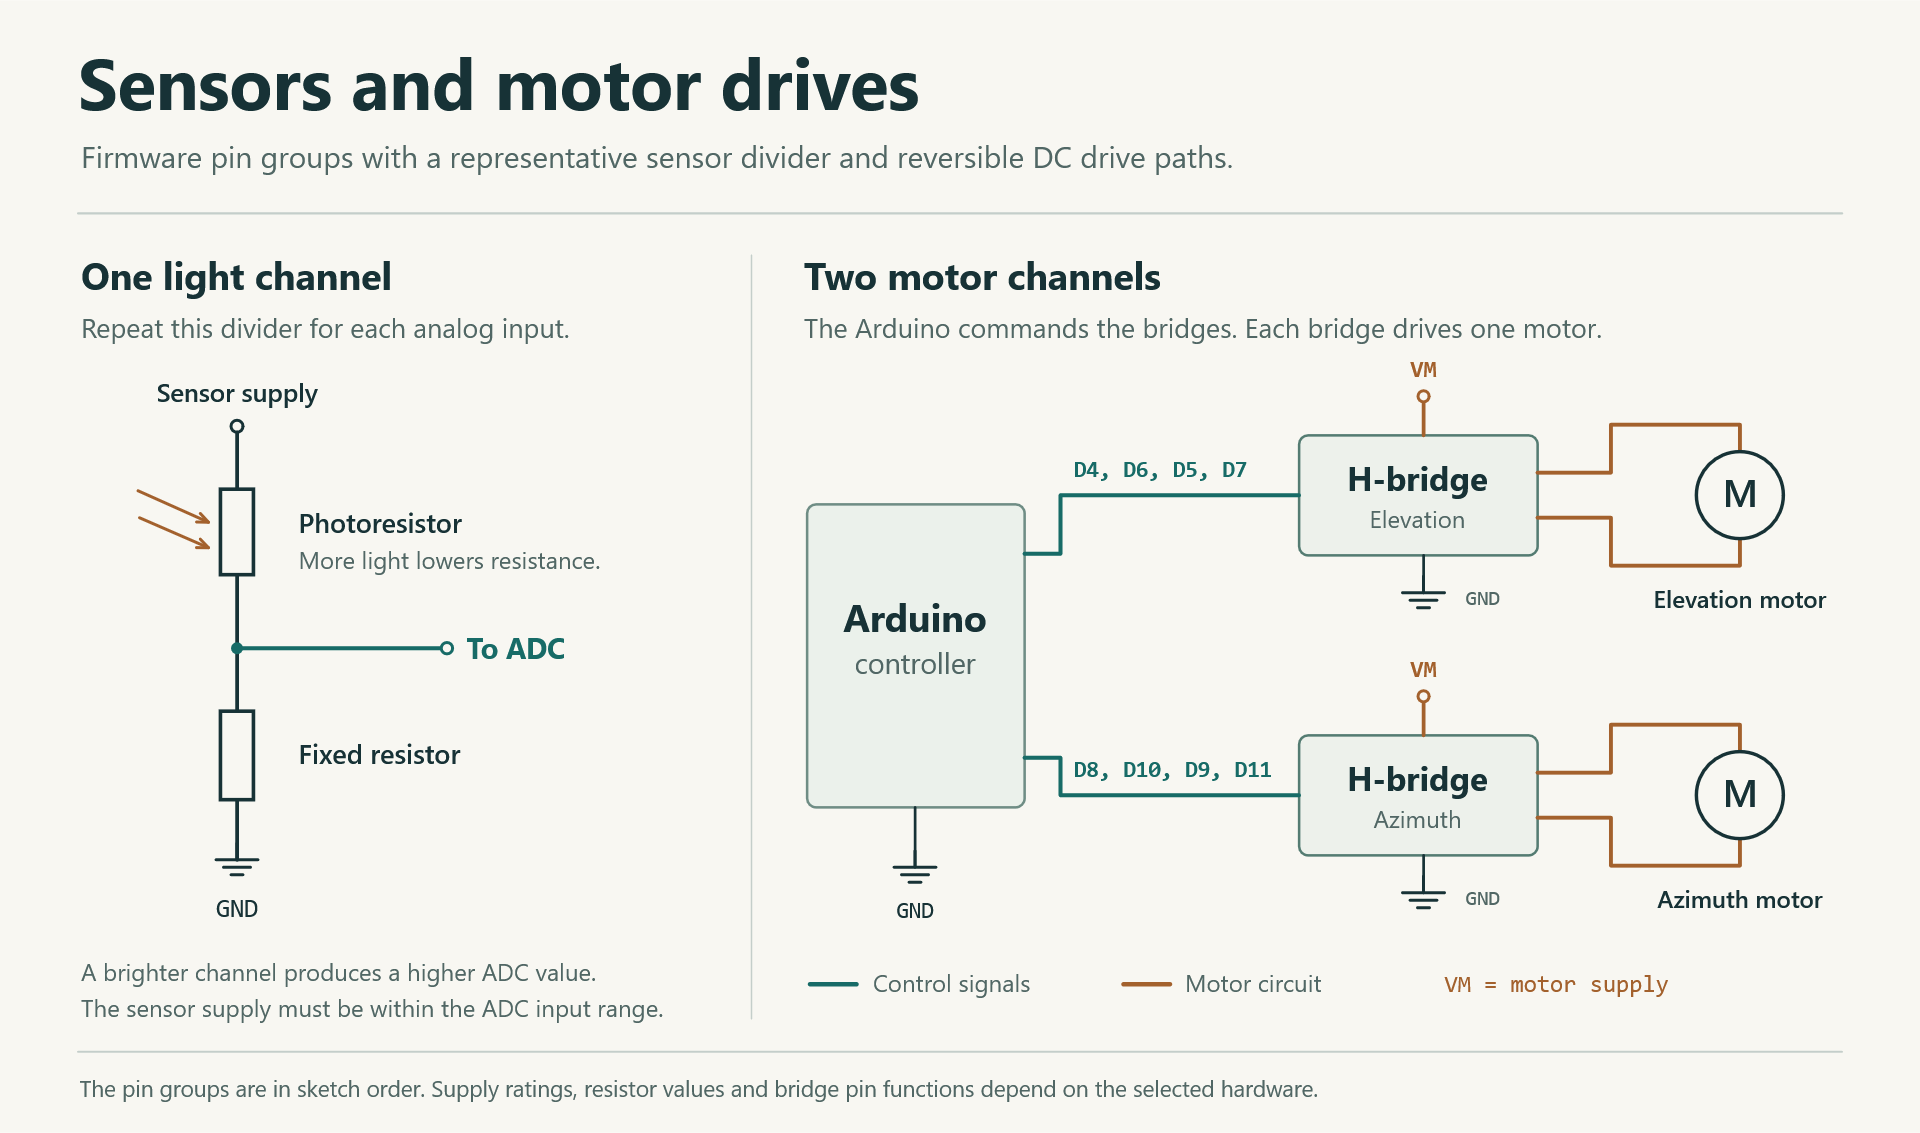
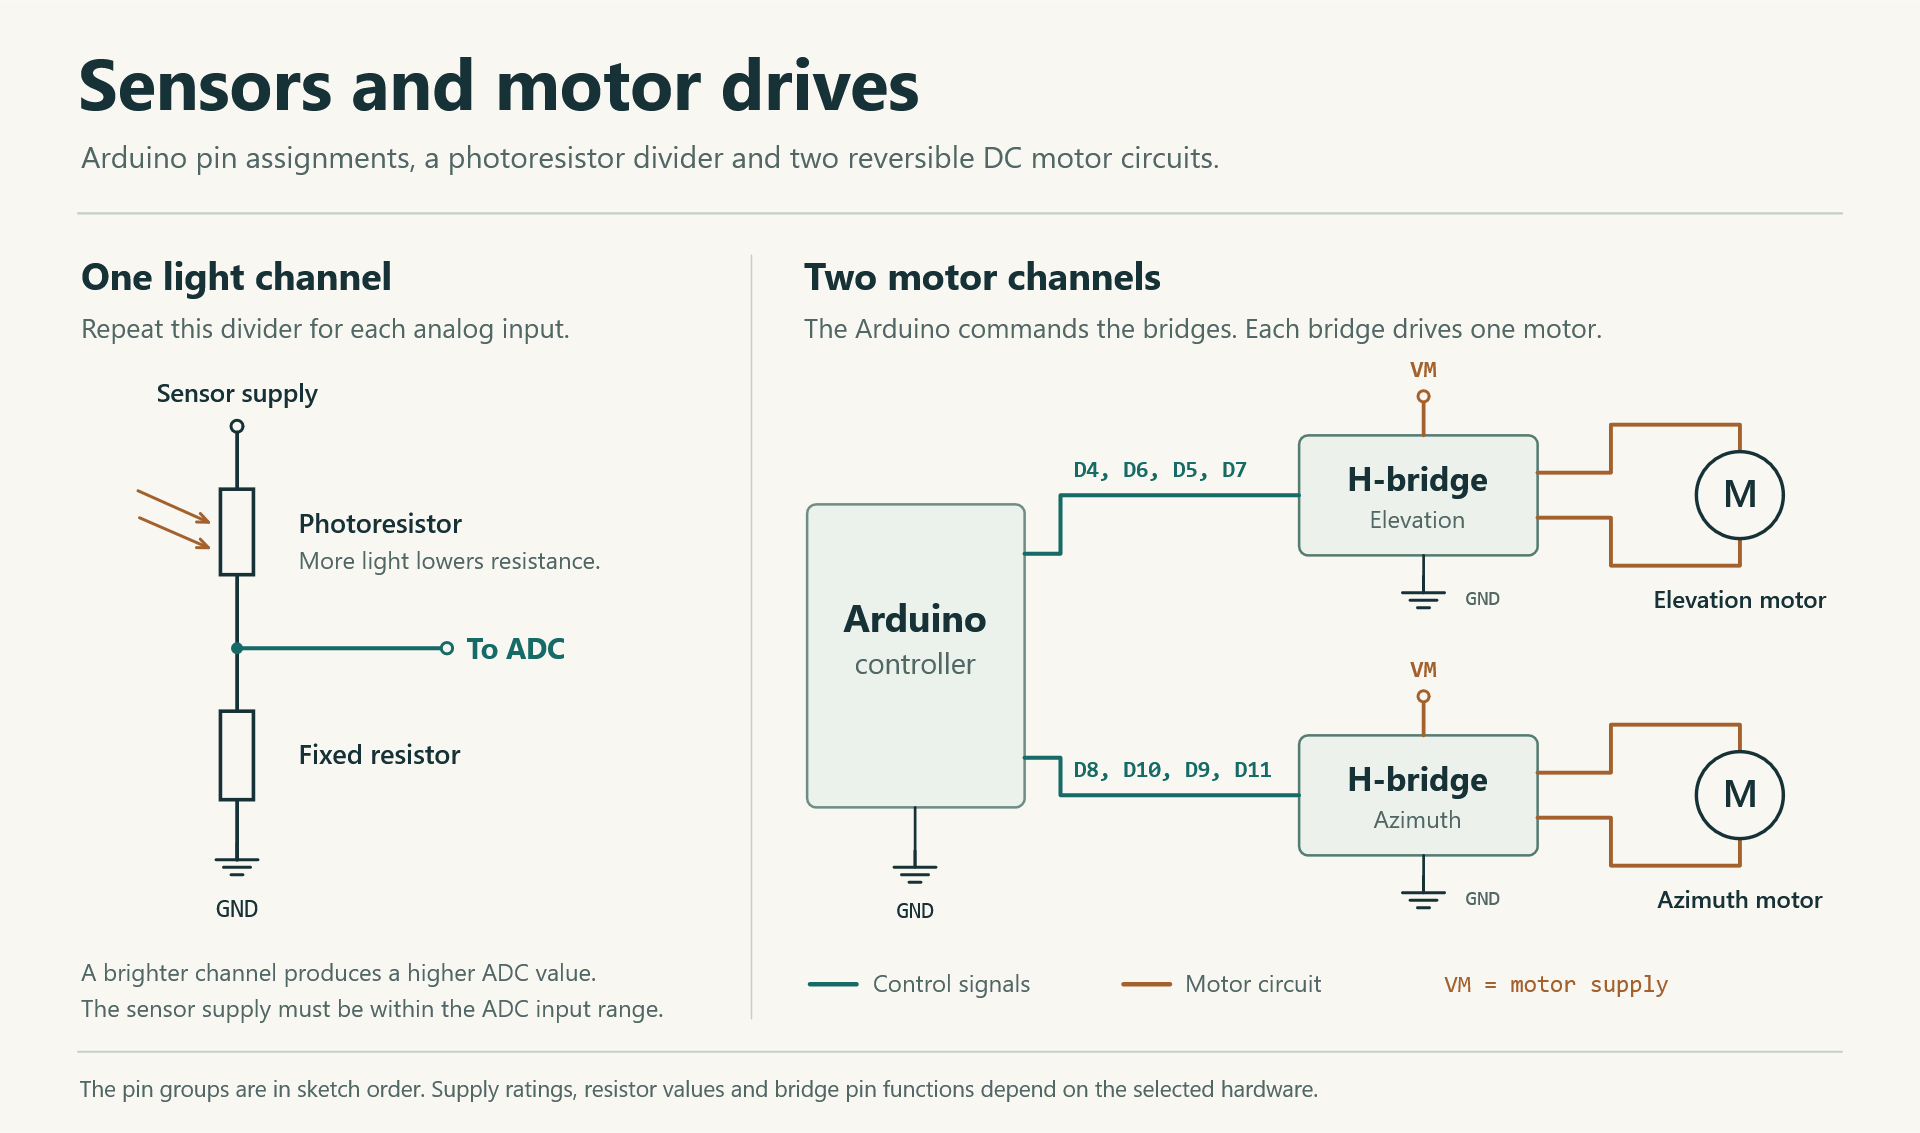
Refine tracking session documentation and hardware drawings

Changed region(s): [[0.0312, 0.1236, 0.6562, 0.1545]]

diff --git a/libraries/ConnectTask/ConnectTask.cpp b/libraries/ConnectTask/ConnectTask.cpp
@@ -132,7 +132,7 @@ void ConnectTask::CreateApProcedure()
 	if (bitRead(updateInfo.data_1, sizeof(updateInfo.data_1) * 8 - 1))
 	{
 		String tempString_1;
-		tempString_1 += F("DEMO_TRACKER_AP");
+		tempString_1 += F("TRACKER_SETUP_AP");
 		WiFi.mode(WIFI_AP_STA);
 		WiFi.softAP(tempString_1.c_str(), "SET_AP_PASSWORD", apChannel.toInt());
 		updateInfo.time_1 = millis() + 2000;

diff --git a/README.md b/README.md
@@ -2,11 +2,11 @@
 
 An Arduino controller points a solar panel toward the brightest part of the sky. It compares four photoresistors and drives the elevation and azimuth motors independently. A radio remote provides manual control, and an ESP8266 serves a browser panel for inspecting device logs and setting the clock.
 
-[Hardware drawings](docs/hardware.md) · [Web panel and sample session](docs/interface.md) · [Main Arduino sketch](Sterownik_Solarny/Sterownik_Solarny.ino)
+[Hardware drawings](docs/hardware.md) · [Web panel and tracking session](docs/interface.md) · [Main Arduino sketch](Sterownik_Solarny/Sterownik_Solarny.ino)
 
-[![Concept drawing of the tracker with close-up views of the elevation shaft and azimuth ring gear](media/tracker-assembly.png)](docs/hardware.md)
+[![Assembly drawing of the tracker with close-up views of the elevation shaft and azimuth ring gear](media/tracker-assembly.png)](docs/hardware.md)
 
-*Mechanical concept based on the two drive axes in the firmware. The proposed frame, bearings and gearing are shown in detail in the hardware drawings.*
+*Assembly drawing showing the elevation shaft that tilts the panel and the azimuth turntable that rotates its base.*
 
 ## One tracking cycle
 
@@ -51,11 +51,11 @@ The main sketch assigns the four analog inputs and both H-bridges. It also conne
 
 ## Web diagnostics
 
-The **Read Logs** panel plots a selected numeric channel above a timeline of firmware events. In this sample, the upper graph shows free ESP8266 heap in bytes. The four entries below it follow a single correction from idle to motor movement and back. The original interface uses English controls and Polish event descriptions.
+The **Read Logs** panel plots a selected numeric channel above a timeline of firmware events. The upper graph shows free ESP8266 heap in bytes. The four entries below it follow a single correction from idle to motor movement and back. The original interface uses English controls and Polish event descriptions.
 
 [![Desktop Read Logs panel with a free-heap graph and four tracker state events](media/read-logs-desktop.png)](docs/interface.md)
 
-The **Set Time** view provides date and time pickers at phone width. Both captures use the project’s original web assets and simulated data for 18 November 2026. [Mobile view and sample data](docs/interface.md)
+The **Set Time** view provides date and time pickers at phone width. Both captures use the project’s original web assets and show the same date, 18 November 2026. [Mobile view and session data](docs/interface.md)
 
 ## Source guide
 
@@ -68,4 +68,4 @@ The **Set Time** view provides date and time pickers at phone width. Both captur
 | Radio input from a PC serial port | [RemoteControllerPC sketch](RemoteControllerPC/RemoteControllerPC.ino) |
 | Component exercises | [Sun sensor](Test_SunSensor/Test_SunSensor.ino) · [Indicator](Test_LedIndicator/Test_LedIndicator.ino) · [Remote](Test_RemoteController/Test_RemoteController.ino) · [Serial test peer](Test2_WiFiModuleESP/Test2_WiFiModuleESP.ino) |
 
-The `v1`, `v2` and `Backup` directories preserve project variants. The links above point to the implementations used by the main sketches. Shared Arduino libraries such as `BridgeH`, `RadioListener`, `SerialListener` and `UpdateManager` are external dependencies. The fallback Wi-Fi access point uses example credentials in this public copy.
+The `v1`, `v2` and `Backup` directories preserve project variants. The links above point to the implementations used by the main sketches. Shared Arduino libraries such as `BridgeH`, `RadioListener`, `SerialListener` and `UpdateManager` are external dependencies.

diff --git a/docs/hardware.md b/docs/hardware.md
@@ -4,15 +4,15 @@ The firmware defines the four sensor channels, two motor axes and their Arduino 
 
 ## Tracker assembly
 
-![Mechanical concept for a dual-axis tracker with an elevation cradle and an azimuth turntable](../media/tracker-assembly.png)
+![Assembly drawing of a dual-axis tracker with an elevation cradle and an azimuth turntable](../media/tracker-assembly.png)
 
-In this concept, the panel and light sensor tilt together on a horizontal shaft supported by two bearings. The elevation gearmotor is mounted to the rotating yoke. At the base, a stationary motor drives a ring gear while a turntable bearing carries the yoke. The frame, bearings, gearing and mount geometry are proposed for this illustration.
+The drawing shows the panel and light sensor tilting together on a horizontal shaft supported by two bearings. The elevation gearmotor is mounted to the rotating yoke. At the base, a stationary motor drives a ring gear while a turntable bearing carries the yoke.
 
 ## Directional light sensor
 
 ![Four photoresistors separated by two diagonal baffles and the associated analog input and axis labels](../media/directional-light-sensor.png)
 
-The proposed head sits along the upper edge with its sensing face parallel to the panel. Two opaque diagonal baffles cast different shadows as light moves off-axis. The default orientation in the main sketch gives the following mapping.
+The drawing places the sensor head along the upper edge with its sensing face parallel to the panel. Two opaque diagonal baffles cast different shadows as light moves off-axis. The default orientation in the main sketch gives the following mapping.
 
 | Axis | Positive side | Opposite side | Difference before calibration |
 | --- | --- | --- | --- |
@@ -23,9 +23,9 @@ The sensor code adds a stored offset to each difference and supports filtering f
 
 ## Sensors and motor drives
 
-![Representative photoresistor voltage divider, two Arduino pin groups, two H-bridges and their motors](../media/sensor-and-motor-wiring.png)
+![Photoresistor voltage divider, two Arduino pin groups, two H-bridges and their motors](../media/sensor-and-motor-wiring.png)
 
-The representative divider places the photoresistor above the analog input and a fixed resistor between the input and ground. More light then raises the input voltage, consistent with the firmware’s low-light check. Each motor has a separate reversible H-bridge channel.
+The divider places the photoresistor above the analog input and a fixed resistor between the input and ground. More light then raises the input voltage, consistent with the firmware’s low-light check. Each motor has a separate reversible H-bridge channel.
 
 | Function | Pins in sketch order |
 | --- | --- |

diff --git a/docs/interface.md b/docs/interface.md
@@ -1,12 +1,12 @@
 # Web panel
 
-The ESP8266 serves a Metro UI interface with a log reader and a date/time form. These browser captures use the HTML, scripts, styles and icon font shipped with the project. A simulated SD directory supplies the records for the example below. [Original web assets](../libraries/WiFiModuleESP/Assets) · [Project overview](../README.md)
+The ESP8266 serves a Metro UI interface with a log reader and a date/time form. These browser captures use the HTML, scripts, styles and icon font shipped with the project. [Original web assets](../libraries/WiFiModuleESP/Assets) · [Project overview](../README.md)
 
 ## Read Logs
 
 ![Desktop diagnostic panel with a one-minute free-heap trace and four labelled state transitions](../media/read-logs-desktop.png)
 
-The graph covers **10:24–10:25 on 18 November 2026**. Its horizontal axis is local device time and its vertical axis is free ESP8266 heap in bytes. Thirty simulated samples, spaced two seconds apart, range from **31,144 to 31,600 bytes**. The firmware alternates its free-heap and loop-duration channels. The example selects the free-heap channel. [ESP8266 logger](../libraries/WiFiModuleESP/WiFiModuleESP.cpp) · [Session data](example-session.json)
+The graph covers **10:24–10:25 on 18 November 2026**. Its horizontal axis is local device time and its vertical axis is free ESP8266 heap in bytes. The graph plots 30 free-heap readings at two-second intervals, ranging from **31,144 to 31,600 bytes**. The firmware alternates its free-heap and loop-duration channels. [ESP8266 logger](../libraries/WiFiModuleESP/WiFiModuleESP.cpp) · [Session data](tracking-session.json)
 
 The timeline is zoomed around the correction. The firmware’s original Polish labels identify the state and its initialization word.
 
@@ -23,6 +23,6 @@ The graph and timeline were drawn by the original log client using the event def
 
 <img src="../media/set-time-mobile.png" width="350" alt="Phone-width Set Time panel with 18 November 2026 and 10:25 selected">
 
-The date and time controls are set to the end of the sample interval. On the device, the **Set** button sends the selected values to the ESP8266 time-setting handler. [Set Time form](../libraries/WiFiModuleESP/Assets/SetTimeBody.html)
+The date and time controls are set to the end of the interval shown on the graph. On the device, the **Set** button sends the selected values to the ESP8266 time-setting handler. [Set Time form](../libraries/WiFiModuleESP/Assets/SetTimeBody.html)
 
-The navigation also includes Home and Storage, which are placeholder views in this source tree.
+Home and Storage also appear in the menu. Neither view contains device controls.
